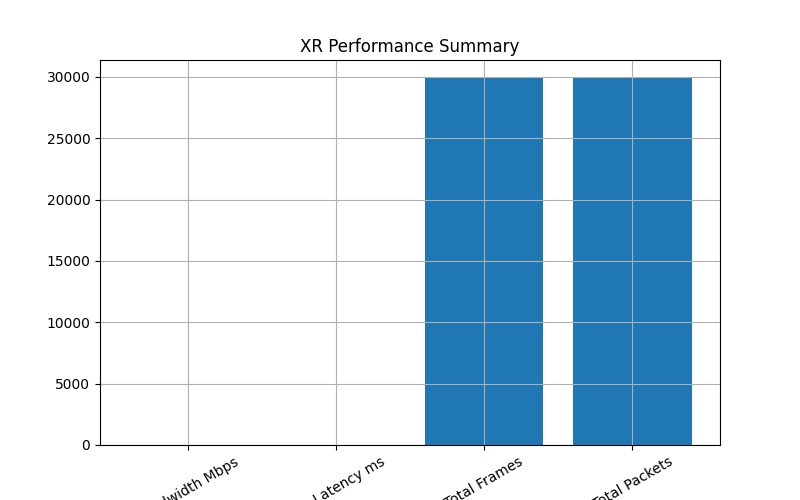
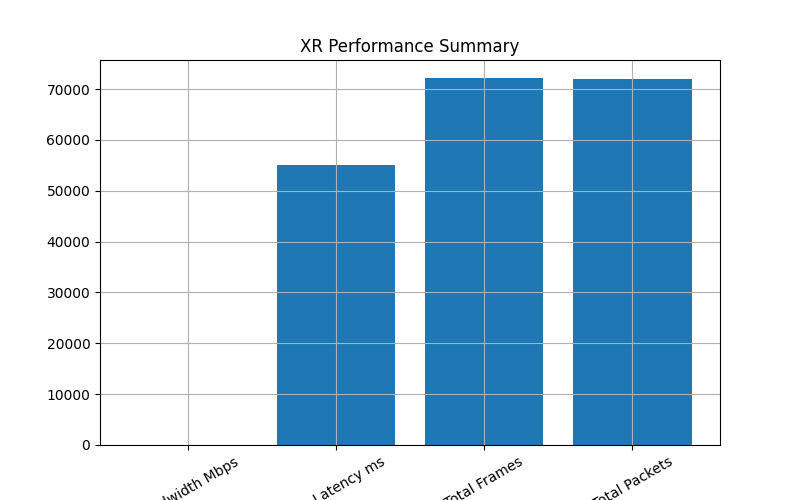
Component2 complete

diff --git a/src/impairment_engine.py b/src/impairment_engine.py
@@ -152,37 +152,15 @@ class NetworkImpairmentEngine:
 
     def get_delivered_packets(self):
 
-
-        packets = (
-            self.packet_queue.get_ready_packets()
-        )
-
+        packets = self.packet_queue.get_ready_packets()
 
         for packet in packets:
 
-
-            receive_time = time.time()
-
-
-            actual_latency = (
-
-                receive_time
-                -
-                packet["send_time"]
-
-            ) * 1000
-
-
-
-            packet["actual_latency_ms"] = (
-                actual_latency
-            )
-
-
+         # Use the simulated network latency
+        # (configured latency + jitter)
+            packet["actual_latency_ms"] = packet["expected_latency_ms"]
 
             self.delivered_packets += 1
-
-
 
         return packets
 

diff --git a/src/main.py b/src/main.py
@@ -189,17 +189,8 @@ async def xr_user(user_id):
 
 
             metrics.increment_packets()
-
-
-            metrics.add_bytes(
-                pkt["size"]
-            )
-            # NEW:
-            # Record real network latency
-
-            metrics.add_latency(
-                pkt["actual_latency_ms"]
-            )
+            metrics.add_bytes(pkt["size"])
+            metrics.add_latency(pkt["actual_latency_ms"])
 
 
         # =================================================

diff --git a/src/metrics.py b/src/metrics.py
@@ -84,7 +84,7 @@ class Metrics:
             sum(self.latencies)
             /
             len(self.latencies)
-        ) * 1000
+        )
 
 
 
@@ -94,7 +94,7 @@ class Metrics:
             return 0
 
 
-        return min(self.latencies) * 1000
+        return min(self.latencies)
 
 
 
@@ -104,7 +104,7 @@ class Metrics:
             return 0
 
 
-        return max(self.latencies) * 1000
+        return max(self.latencies)
 
 
 
